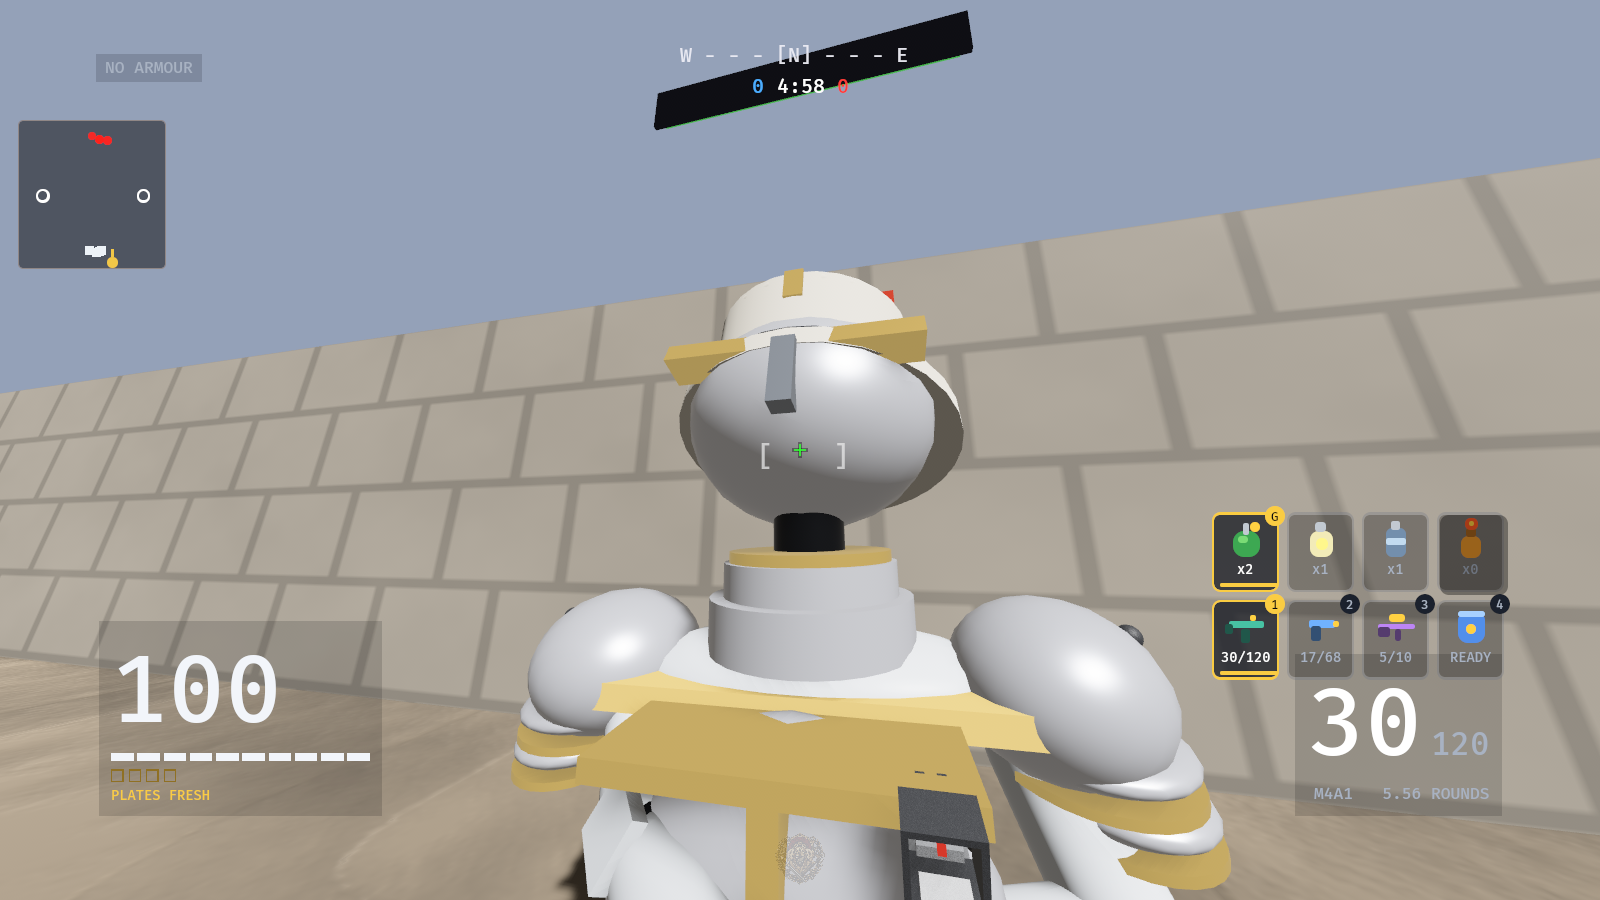
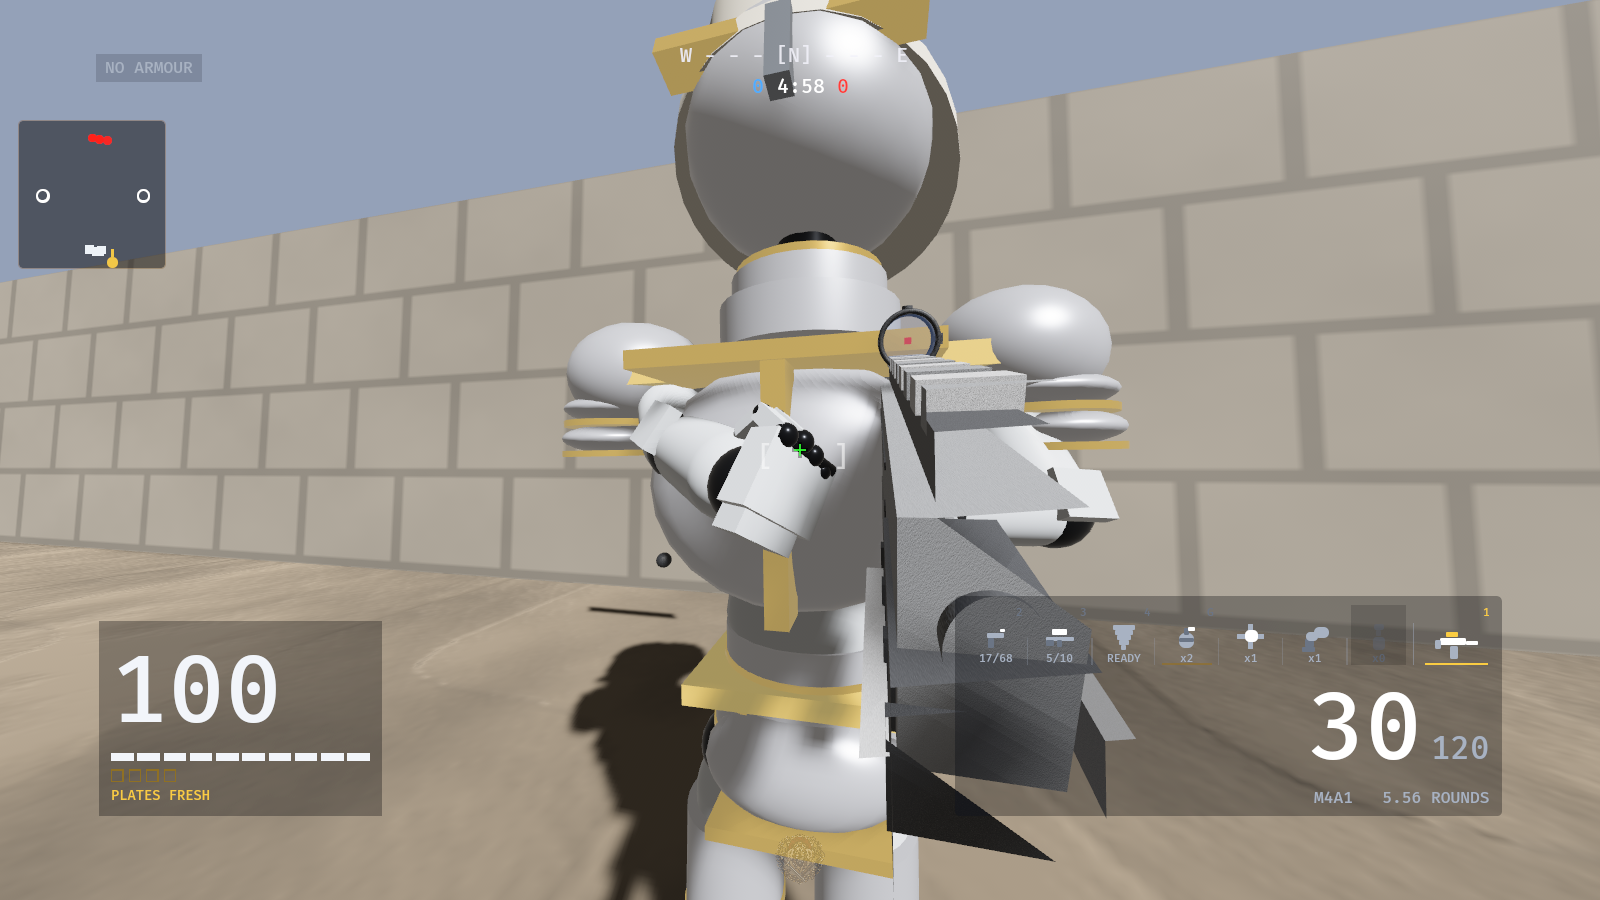
hand_detail photographed a chest four times, so the camera got a way down
`hand_detail` calls itself "the close world-hand shot" and every frame it
has ever produced is of the subject's head and upper torso. Not one
finger in the set. The same gap on the first-person side is worse: the
viewmodel hand had never been framed at all.

Neither is a mis-typed number. The third-person boom anchors on the HEAD
and an orbited capture camera look_at's that same anchor, so shortening
`boom` closes on the head and pushes the hands - half a metre lower -
out of frame FASTER. And the viewmodel is drawn by its own fixed-FOV
camera and parented to the world one, so `look` cannot move it and no
world-side field can magnify it; that camera had no marker component, so
nothing could even query it.

So: two capture-only handles, both inert without JK_CAPTURE.

* `CapBeat::aim_drop` lowers the boom anchor by a stated number of
  metres. `hand_detail` now aims 0.46 m below the head and comes back
  with the support hand on the forend, at ~190 px, joint balls and
  segment breaks resolvable.
* `CapBeat::vm_lens` is `[fov, yaw, pitch]` for the viewmodel camera.
  Zoom alone is not enough - magnifying about the centre throws a
  corner-mounted hand off the edge - so it carries the aim that
  re-centres it. New `hand_fp` script: rifle grip and open bow hand, at
  three lens lengths.

Verified: JK_CAPTURE=hand_detail and JK_CAPTURE=hand_fp, exit 0, 4 and 6
screenshots, 0 panics, all ten opened. The first `hand_detail` run of the
[…]

diff --git a/engine/crates/jk_tdm/src/main.rs b/engine/crates/jk_tdm/src/main.rs
@@ -49,6 +49,10 @@ mod branding;
 mod cockpit;
 /// §7 (owner spec): the grenade you are holding, and the fist holding
 /// it. Same two-line wiring as `branding` and `cockpit`.
+/// §owner HAND GRAPHICS: the two camera handles a hand needs and this
+/// harness did not have - a boom anchor that can aim below the head, and
+/// the viewmodel camera's own lens. Same two-line wiring as `branding`.
+mod hand_capture;
 mod hand_pose;
 mod held_grenade;
 /// §owner FRONT END (2026-08-10): launch -> intro image -> two options ->
@@ -5862,6 +5866,24 @@ struct CapBeat {
     /// because it searched for one at deploy. This asks for that one
     /// back instead of guessing a second time.
     home: bool,
+    /// Capture-only: LOWER the third-person boom anchor by this many
+    /// metres - see `hand_capture::CaptureAim`. Held until changed.
+    ///
+    /// Added because a hand could not be framed at all. The anchor is
+    /// the HEAD (`anchor_h`), and an orbited capture camera `look_at`s
+    /// it, so shortening `boom` closes on the head and pushes the hands
+    /// - which hang the better part of half a metre lower - off the
+    /// bottom of the frame. `hand_detail` shipped four "close hand"
+    /// frames of a chest for exactly this reason.
+    aim_drop: Option<f32>,
+    /// Capture-only VIEWMODEL LENS: `[fov_deg, yaw_deg, pitch_deg]` -
+    /// see `hand_capture::CaptureVmLens`. Held until changed.
+    ///
+    /// The first-person hand is drawn by its own fixed-FOV camera and is
+    /// pinned to a corner, so `look` cannot move it (it is parented to
+    /// the camera) and no world-side field can magnify it. This is the
+    /// only handle on it.
+    vm_lens: Option<[f32; 3]>,
     snap: Option<&'static str>,
     end: bool,
 }
@@ -5877,6 +5899,8 @@ const fn beat(t: f32) -> CapBeat {
         hull: None,
         pos: None,
         home: false,
+        aim_drop: None,
+        vm_lens: None,
         snap: None,
         end: false,
     }
@@ -6100,8 +6124,33 @@ const SPEAR_WIND_BEATS: &[CapBeat] = &[
 /// knowledge), from three angles. The support hand on the forend is the
 /// subject; it is the one hand that is open enough to show finger
 /// separation.
+///
+/// # ...and it photographed a CHEST, four times out of four
+///
+/// Every frame this table produced (`handback/brief-vii/hand_detail/`,
+/// captured 2026-08-11) is of the subject's head and upper torso. Not
+/// one contains a hand. The paragraph above is a description of an
+/// intent, not of a frame anybody opened.
+///
+/// The cause is structural and no value of the three fields it was using
+/// could have fixed it. The boom anchors on `anchor_h` - the HEAD - and
+/// an orbited capture camera `look_at`s that same anchor, so `boom`
+/// scales the camera's distance from the HEAD and the hands, which hang
+/// ~0.45 m lower, fall out of frame FASTER the closer you pull in.
+/// Pitch does not help either: it swings the camera around the anchor
+/// rather than tilting the view off it.
+///
+/// So the fix is a fourth field, not a fourth number: `aim_drop` lowers
+/// the anchor to the hands and the camera aims where it was always
+/// claiming to. 0.46 m below the head anchor is a rifle at the ready.
 const HAND_DETAIL_BEATS: &[CapBeat] = &[
-    CapBeat { look: Some((0.0, -0.30)), boom: Some(0.30), orbit: Some(PI), ..beat(0.5) },
+    CapBeat {
+        look: Some((0.0, -0.10)),
+        boom: Some(0.30),
+        orbit: Some(PI),
+        aim_drop: Some(0.46),
+        ..beat(0.5)
+    },
     CapBeat { snap: Some("01-hand-front-close"), ..beat(1.6) },
     CapBeat { orbit: Some(PI * 0.68), ..beat(1.8) },
     CapBeat { snap: Some("02-hand-quarter-close"), ..beat(2.6) },
@@ -6110,8 +6159,15 @@ const HAND_DETAIL_BEATS: &[CapBeat] = &[
     CapBeat { orbit: Some(FRAC_PI_2), ..beat(2.8) },
     CapBeat { snap: Some("03-hand-profile-close"), ..beat(3.6) },
     // and one from underneath, which is where the palm, the heel and the
-    // thenar mound actually face.
-    CapBeat { orbit: Some(PI * 0.85), look: Some((0.0, -0.55)), boom: Some(0.26), ..beat(3.8) },
+    // thenar mound actually face. The camera goes UNDER the hands by
+    // dropping the anchor further, not by pitching - see above.
+    CapBeat {
+        orbit: Some(PI * 0.85),
+        look: Some((0.0, -0.28)),
+        boom: Some(0.26),
+        aim_drop: Some(0.60),
+        ..beat(3.8)
+    },
     CapBeat { snap: Some("04-hand-underside"), ..beat(4.6) },
     CapBeat { end: true, ..beat(5.0) },
 ];
@@ -7261,6 +7317,7 @@ fn capture_script(name: &str) -> &'static [CapBeat] {
         "trims" => TRIMS_BEATS,
         "hands" => HANDS_BEATS,
         "hand_detail" => HAND_DETAIL_BEATS,
+        hand_capture::SCRIPT_FP => hand_capture::FP_BEATS,
     "bow_draw" => BOW_DRAW_BEATS,
         "bow_draw_fp" => BOW_DRAW_FP_BEATS,
         "spear_fp" => SPEAR_FP_BEATS,
@@ -7320,7 +7377,7 @@ fn capture_dir(script: &str) -> String {
 /// Populated once at Startup from `JK_CAPTURE`; if unset, every capture
 /// system below is a no-op and the game behaves exactly as launched by a
 /// human.
-const CAPTURE_SCRIPTS: [&str; 47] = [
+const CAPTURE_SCRIPTS: [&str; 48] = [
     // §HUD rework section 2: the threat ring. Its own module owns the
     // beats AND the staging - no script before it had ever pointed an
     // enemy at the subject on purpose, which is why "who can see me"
@@ -7363,6 +7420,9 @@ const CAPTURE_SCRIPTS: [&str; 47] = [
     // §owner HAND GRAPHICS PASS: the close world-hand shot. `hands` is
     // the wide one and cannot resolve a finger.
     "hand_detail",
+    // ...and the FIRST-PERSON hand, which nothing had ever framed. See
+    // `hand_capture` for why neither of these worked before.
+    hand_capture::SCRIPT_FP,
     "baseline",
     "idle_life",
     "bow_draw",
@@ -7529,6 +7589,11 @@ fn capture_quick_deploy(
         // both bow scripts press Digit3, so slot 3 has to actually hold a
         // bow or they capture whatever the default special happens to be
         Some("bow_draw") | Some("bow_draw_fp") => sel.loadout[2] = GunKind::Bow,
+        // §owner HAND GRAPHICS: the first-person hand script carries a
+        // rifle in the primary and a bow in slot 3, because they are the
+        // two hand SHAPES - a closed grip and an open one - and it
+        // presses Digit3 to get from one to the other.
+        Some(hand_capture::SCRIPT_FP) => sel.loadout[2] = GunKind::Bow,
         // and both new spear scripts press Digit3 for the same reason
         Some("spear_fp") | Some("spear_wind") => sel.loadout[2] = GunKind::Spear,
         // the seven iron-sighted guns across three runs; the AWM is
@@ -7560,17 +7625,17 @@ fn capture_quick_deploy(
         Some("shotgun_model") => {
             sel.loadout = [GunKind::Shotgun, GunKind::Glock, GunKind::Mp5];
         }
+        // the SMG hoisted OUT of slot 3 and into the primary, so the
+        // shared beats - which never press a digit - actually frame it
+        Some("mp5_model") => {
+            sel.loadout = [GunKind::Mp5, GunKind::Glock, GunKind::Ak47];
+        }
         // the hand cannon in the primary slot and the Glock in slot 2 -
         // the beats press Digit2 at the end to put the two pistols in
         // front of the same camera, which is the only way the "biggest
         // pistol in the arsenal" claim is checkable.
         Some("deagle_model") => {
             sel.loadout = [GunKind::Deagle, GunKind::Glock, GunKind::Mp5];
-        }
-        // the SMG hoisted OUT of slot 3 and into the primary, so the
-        // shared beats - which never press a digit - actually frame it
-        Some("mp5_model") => {
-            sel.loadout = [GunKind::Mp5, GunKind::Glock, GunKind::Ak47];
         }
         // the ONLY script that leaves Arena. `capture_quick_deploy` runs
         // before `start_match` reads `Selected`, so setting the map here
@@ -7910,6 +7975,8 @@ fn capture_input_driver(
     mut cam: ResMut<CamCtl>,
     mut orbit: ResMut<CaptureOrbit>,
     mut boom: ResMut<CaptureBoom>,
+    mut cap_aim: ResMut<hand_capture::CaptureAim>,
+    mut cap_lens: ResMut<hand_capture::CaptureVmLens>,
     cap_home: Res<CaptureHome>,
     mut game: ResMut<Game>,
 ) {
@@ -7942,6 +8009,15 @@ fn capture_input_driver(
         }
         if let Some(bm) = b.boom {
             boom.0 = bm;
+        }
+        // §owner HAND GRAPHICS: aim the boom BELOW the head, and reach
+        // the viewmodel's own lens. Both hold until changed, like
+        // `orbit` and `boom` - see `hand_capture`.
+        if let Some(d) = b.aim_drop {
+            cap_aim.0 = d;
+        }
+        if let Some(l) = b.vm_lens {
+            cap_lens.0 = l;
         }
         // §20: stage a damage state. Written as a FRACTION of whatever
         // chassis the subject is in, so one beat table can serve both
@@ -8954,6 +9030,12 @@ fn main() {
         .init_resource::<CaptureOrbit>()
         .init_resource::<CaptureBoom>()
         .init_resource::<CaptureHome>()
+        // §owner HAND GRAPHICS: the boom's aim-below-the-head and the
+        // viewmodel lens. Both default to "no override" - see
+        // `hand_capture`.
+        .init_resource::<hand_capture::CaptureAim>()
+        .init_resource::<hand_capture::CaptureVmLens>()
+        .add_systems(Update, hand_capture::apply_capture_vm_lens)
         .init_resource::<PlasmaHitPool>()
         .add_systems(Startup, init_capture_mode)
         // §owner FRONT END: the app boots into `Title` now, not `Intro`,
@@ -17806,6 +17888,10 @@ fn setup(
             // §20: the viewmodel camera also draws the COCKPIT layer,
             // which the sun is not declared on - see `COCKPIT_LAYER`.
             RenderLayers::from_layers(&[VIEWMODEL_LAYER, COCKPIT_LAYER]),
+            // §owner HAND GRAPHICS: the one marker that makes this lens
+            // reachable from a capture beat. It had none, which is why
+            // the first-person hand had never been photographed close.
+            hand_capture::VmCam,
             Transform::IDENTITY,
         ))
         .set_parent(cam)
@@ -21957,6 +22043,7 @@ fn camera_system(
     settings: Res<GameSettings>,
     cap_orbit: Res<CaptureOrbit>,
     cap_boom: Res<CaptureBoom>,
+    cap_aim: Res<hand_capture::CaptureAim>,
     mut q: Query<(&mut Transform, &mut Projection), With<MainCam>>,
 ) {
     cam_ctl.recoil = (cam_ctl.recoil - time.delta_secs() * 5.0).max(0.0);
@@ -22072,7 +22159,10 @@ fn camera_system(
     // fighter's ACTUAL height - a hardcoded 1.6m put the camera INSIDE
     // a 3m mech's own body once the scale changed. 1.6 was tuned for a
     // 1.78m soldier; keep that same proportion for every height.
-    let anchor_h = 1.6 * (frame_h / BODY_HEIGHT);
+    // §owner HAND GRAPHICS: a capture may aim BELOW the head. Zero in
+    // play - see `hand_capture::CaptureAim` for why no combination of
+    // boom, orbit and look could frame a hand without it.
+    let anchor_h = 1.6 * (frame_h / BODY_HEIGHT) - cap_aim.0;
     let anchor = Vec3::new(p.pos[0], p.pos[1] + anchor_h - crouch_drop, p.pos[2])
         + screen_right * (p.lean * LEAN_SHIFT * 0.8);
     let ads_e = ease_out(cam_ctl.ads_t);

diff --git a/engine/crates/jk_tdm/src/hand_capture.rs b/engine/crates/jk_tdm/src/hand_capture.rs
@@ -1,0 +1,137 @@
+//! THE HAND, PHOTOGRAPHED. Two instruments that did not exist.
+//!
+//! # What was wrong
+//!
+//! This project has two hands a player can see - the WORLD hand on the
+//! body rig and the VIEWMODEL hand 30 cm from the lens - and until this
+//! module it could photograph neither of them.
+//!
+//! * `hand_detail` claims in its own header to be "the close world-hand
+//!   shot", boom pulled to 0.30, three angles plus an underside. All
+//!   four of its frames in `handback/brief-vii/hand_detail/` are of the
+//!   subject's HEAD AND CHEST. There is not one finger in the set.
+//!   The reason is structural, not a mis-typed number: the third-person
+//!   boom anchors on `anchor_h = 1.6 * (frame_h / BODY_HEIGHT)` - the
+//!   head - and an orbited capture camera `look_at`s that same anchor.
+//!   Shortening the boom therefore walks the camera TOWARD the head, and
+//!   the hands (a good 0.45 m lower) leave the bottom of the frame
+//!   faster the closer you get. No value of `boom`, `look` or `orbit`
+//!   can frame a hand, which is why two briefs of hand work went out on
+//!   frames of a chest.
+//!
+//! * The viewmodel hand has never had a close shot at all. It is drawn
+//!   by a dedicated fixed-FOV camera (`VM_FOV_DEG`, 68 deg) and it is
+//!   pinned to the corner of the frame, so it lands about 150 px across
+//!   in `bow_draw_fp/01-fp-bow-idle.png` with an inventory panel over
+//!   part of it. Pitching the view does not help: the viewmodel is
+//!   parented to the camera and moves with it, so `look` is inert on it
+//!   by construction. The one lever that can magnify it is that
+//!   camera's OWN lens, and nothing could reach it.
+//!
+//! # The two fixes
+//!
+//! [`CaptureAim`] lowers the third-person boom anchor by a stated number
+//! of metres, so a beat can aim at the HANDS instead of the head; it is
+//! driven by `CapBeat::aim_drop`.
+//!
+//! [`CaptureVmLens`] overrides the viewmodel camera's field of view AND
+//! gives it a local yaw/pitch, so a beat can both zoom in on the
+//! viewmodel and re-centre the zoom on the corner the hand actually
+//! lives in. Zoom alone is not enough - magnifying about the centre of
+//! the frame pushes a corner-mounted hand straight off the edge - which
+//! is why it is one field of three numbers rather than a bare FOV.
+//!
+//! Both are capture-only and inert without `JK_CAPTURE`: `CaptureAim`
+//! defaults to 0 m of drop and `CaptureVmLens` to all-zero, which the
+//! system below reads as "leave the lens exactly as `setup` built it".
+//!
+//! Nothing here is read by the sim.
+
+use crate::{beat, CapBeat, CapKey, VM_FOV_DEG};
+use bevy::prelude::*;
+
+/// The first-person hand script. Must appear in `CAPTURE_SCRIPTS` or
+/// `init_capture_mode` exits(2).
+pub const SCRIPT_FP: &str = "hand_fp";
+
+/// The viewmodel camera, so a capture can reach its lens.
+///
+/// `setup` spawns that camera as an anonymous child of the world camera
+/// with a fixed FOV and no marker of any kind, which is exactly why the
+/// viewmodel could not be zoomed: there was no way to query it.
+#[derive(Component)]
+pub struct VmCam;
+
+/// Metres to LOWER the third-person boom anchor by. 0 in play.
+#[derive(Resource, Default)]
+pub struct CaptureAim(pub f32);
+
+/// `[fov_deg, yaw_deg, pitch_deg]` for the viewmodel camera. All-zero
+/// means "no override" - the lens `setup` built stands.
+///
+/// Yaw NEGATIVE turns the lens toward screen-right and pitch NEGATIVE
+/// tips it down, which is the corner a right-handed viewmodel occupies.
+/// Both signs were derived from Bevy's -Z forward convention and then
+/// checked against a frame, in that order.
+#[derive(Resource, Default)]
+pub struct CaptureVmLens(pub [f32; 3]);
+
+/// Apply [`CaptureVmLens`] to the viewmodel camera.
+///
+/// Change-detected: in a normal run the resource is never written, so
+/// this touches nothing after the first frame.
+pub fn apply_capture_vm_lens(
+    lens: Res<CaptureVmLens>,
+    mut q: Query<(&mut Projection, &mut Transform), With<VmCam>>,
+) {
+    if !lens.is_changed() {
+        return;
+    }
+    let [fov, yaw, pitch] = lens.0;
+    let fov = if fov > 0.0 { fov } else { VM_FOV_DEG };
+    for (mut proj, mut tf) in &mut q {
+        if let Projection::Perspective(pp) = &mut *proj {
+            pp.fov = fov.to_radians();
+        }
+        tf.rotation =
+            Quat::from_rotation_y(yaw.to_radians()) * Quat::from_rotation_x(pitch.to_radians());
+    }
+}
+
+/// THE FIRST-PERSON HAND, at three lens lengths and on two grips.
+///
+/// The ladder of FOVs is deliberate and is not indecision: the hand sits
+/// off-centre, so the zoom that best resolves a knuckle is also the zoom
+/// most likely to have thrown the whole hand out of frame. Taking 68
+/// (the shipping lens, for context), 40 and 26 in one run costs two
+/// extra screenshots and removes an entire build-and-look cycle from
+/// every framing question this script will ever be asked.
+///
+/// Two grips because they are two different hand SHAPES: a rifle closes
+/// the right hand round a pistol grip and lays the left along a forend,
+/// while the bow leaves the support hand open - and an open hand is the
+/// only pose in which the fingers can be told apart at all.
+pub const FP_BEATS: &[CapBeat] = &[
+    CapBeat { press: &[CapKey::K(KeyCode::KeyV)], ..beat(0.5) },
+    CapBeat { release: &[CapKey::K(KeyCode::KeyV)], ..beat(0.6) },
+    // the shipping lens first: this is the hand as a player sees it, and
+    // every zoomed frame below has to be read against it
+    CapBeat { snap: Some("01-rifle-hands-as-shipped"), ..beat(1.2) },
+    CapBeat { vm_lens: Some([40.0, -13.0, -13.0]), ..beat(1.4) },
+    CapBeat { snap: Some("02-rifle-hands-mid"), ..beat(1.9) },
+    CapBeat { vm_lens: Some([26.0, -14.0, -15.0]), ..beat(2.1) },
+    CapBeat { snap: Some("03-rifle-hands-close"), ..beat(2.6) },
+    // ...and the BOW, whose support hand is open round the riser
+    CapBeat { press: &[CapKey::K(KeyCode::Digit3)], ..beat(2.8) },
+    CapBeat { release: &[CapKey::K(KeyCode::Digit3)], ..beat(2.9) },
+    CapBeat { vm_lens: Some([40.0, -13.0, -13.0]), ..beat(3.1) },
+    CapBeat { snap: Some("04-bow-hand-mid"), ..beat(3.6) },
+    CapBeat { vm_lens: Some([26.0, -14.0, -15.0]), ..beat(3.8) },
+    CapBeat { snap: Some("05-bow-hand-close"), ..beat(4.3) },
+    // at full draw the drawing hand hooks the string and the support
+    // hand takes the riser's load - the two most open poses in the game
+    CapBeat { press: &[CapKey::M(MouseButton::Left)], ..beat(4.5) },
+    CapBeat { snap: Some("06-bow-draw-close"), ..beat(5.3) },
+    CapBeat { release: &[CapKey::M(MouseButton::Left)], ..beat(5.5) },
+    CapBeat { end: true, ..beat(5.9) },
+];
